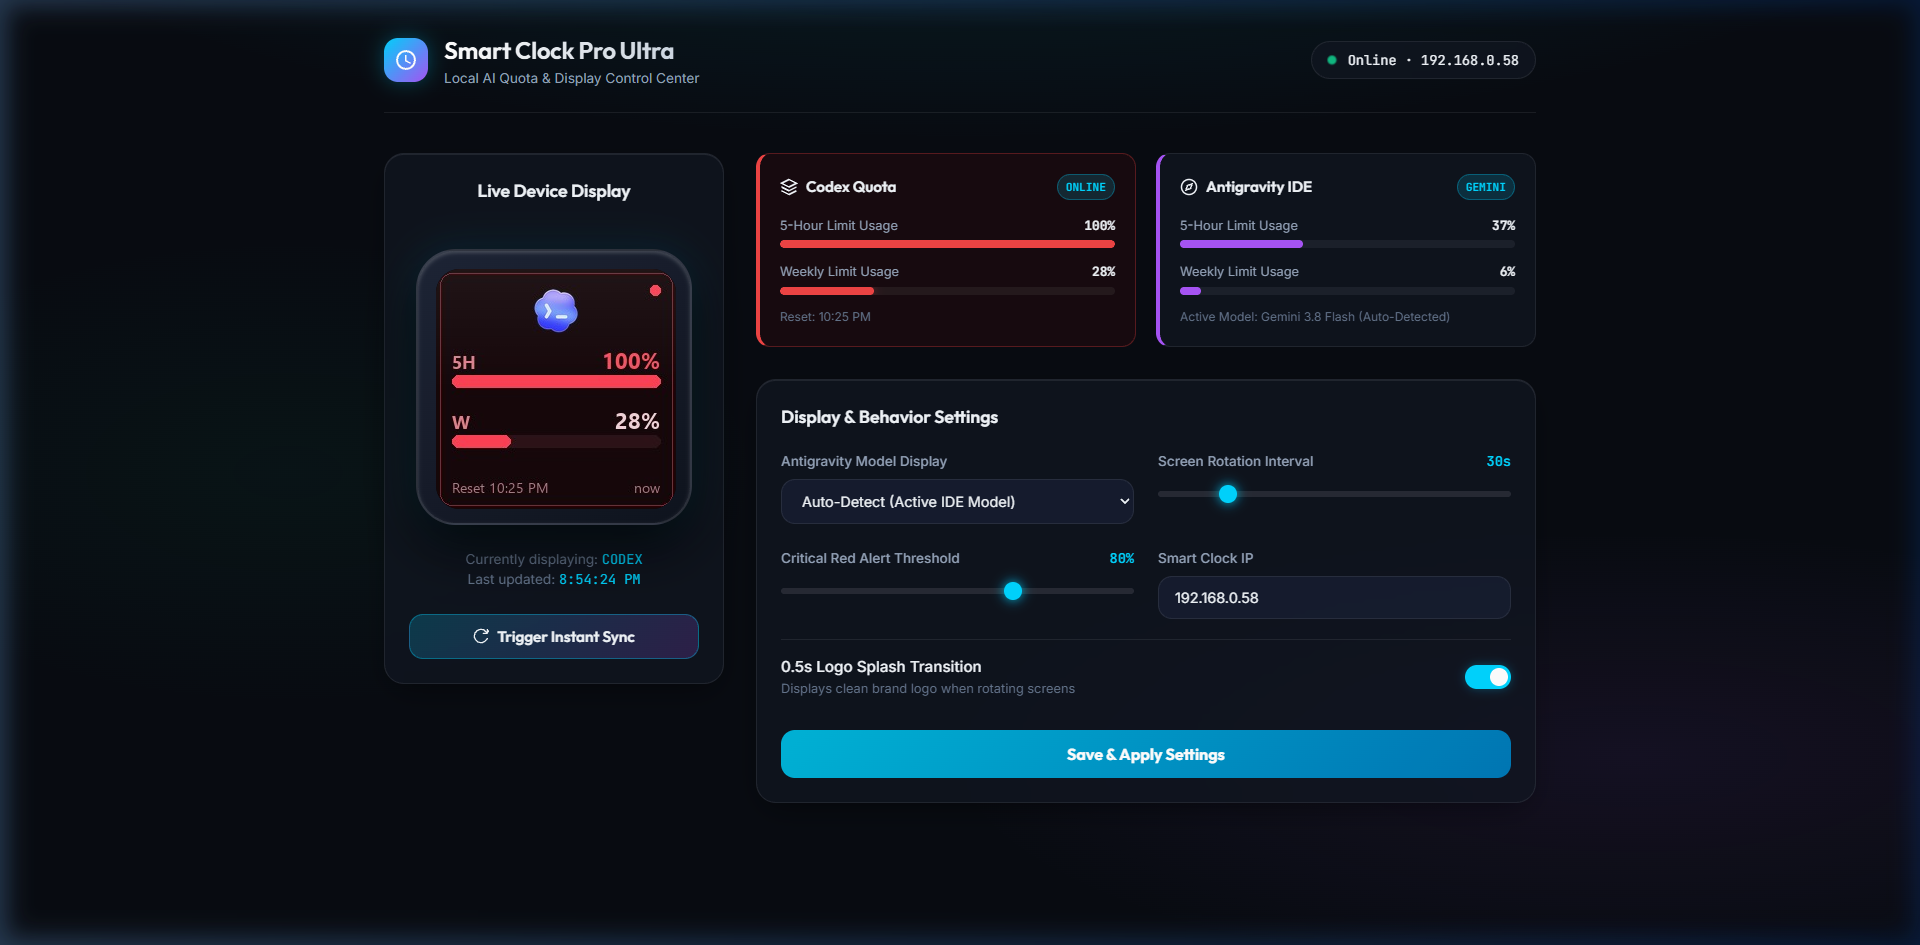
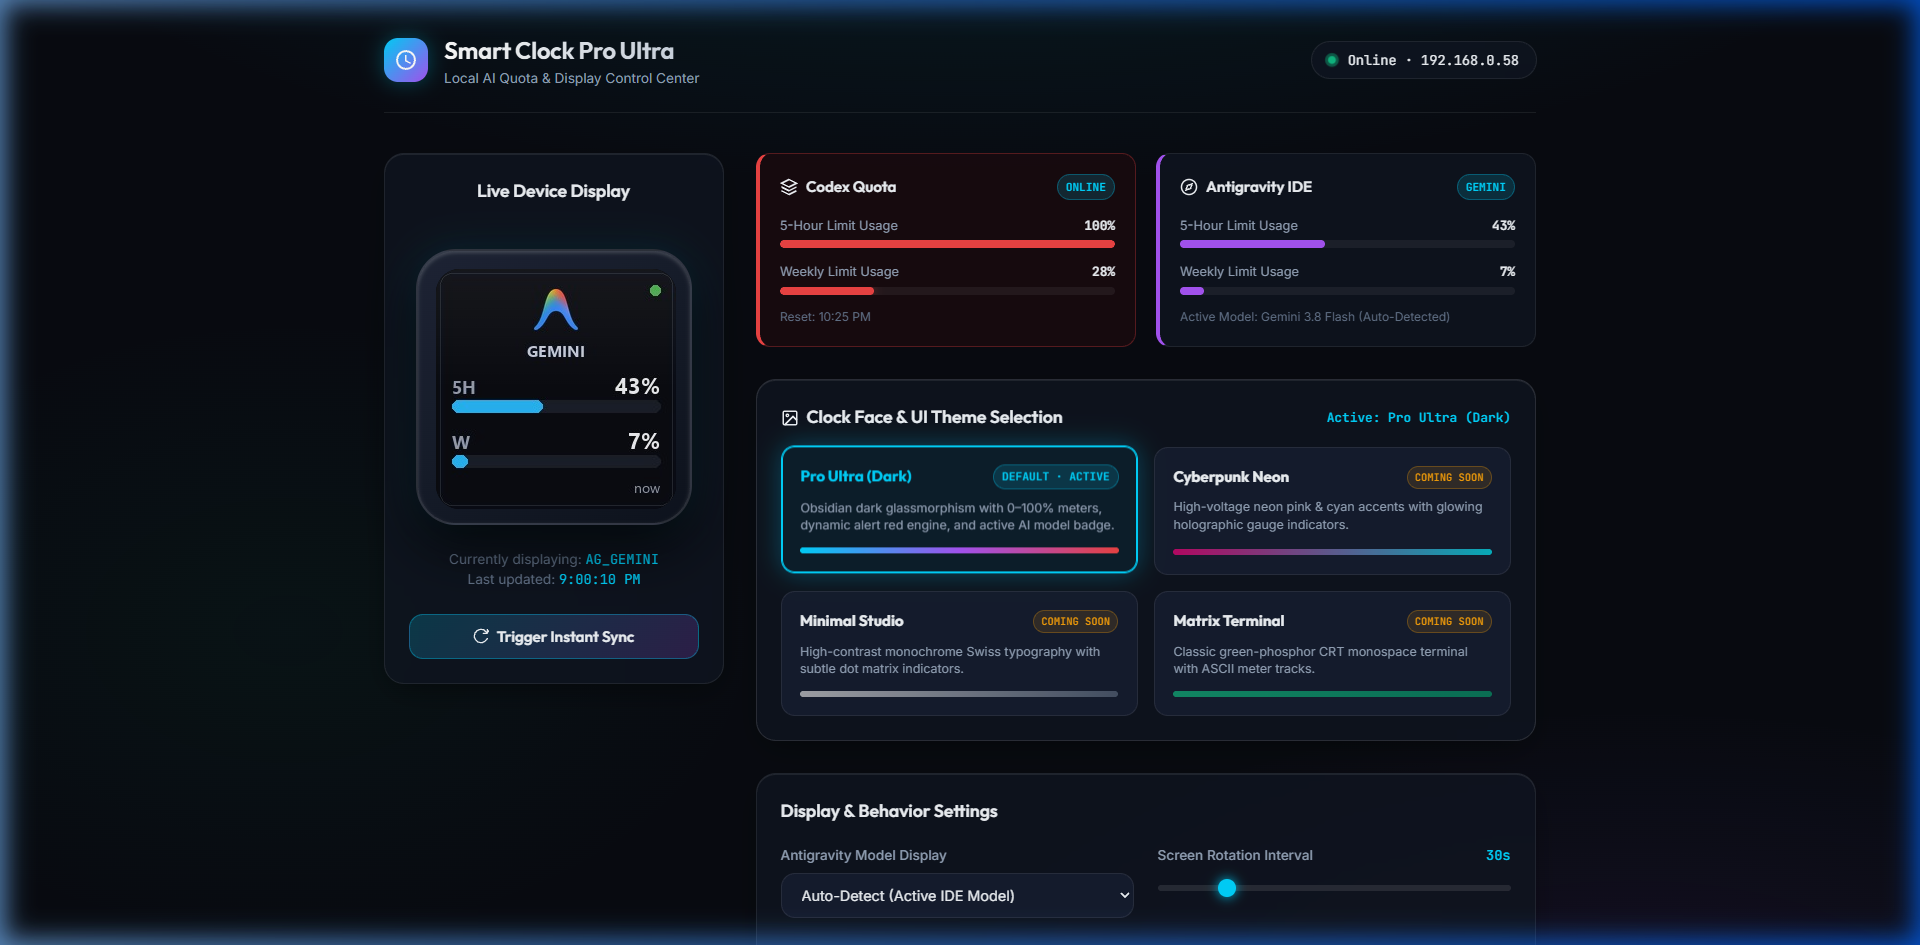
Add Clock Face & UI Theme Selection panel with interactive theme cards

diff --git a/web/index.html b/web/index.html
@@ -341,6 +341,18 @@
       border-color: rgba(168, 85, 247, 0.3);
     }
 
+    .badge-soon {
+      background: rgba(245, 158, 11, 0.12);
+      color: var(--amber);
+      border: 1px solid rgba(245, 158, 11, 0.3);
+      font-size: 0.65rem;
+      font-family: var(--font-mono);
+      font-weight: 600;
+      padding: 0.15rem 0.45rem;
+      border-radius: var(--radius-full);
+      text-transform: uppercase;
+    }
+
     .metric-item {
       margin-bottom: 0.85rem;
     }
@@ -384,6 +396,94 @@
     .progress-red {
       background: var(--red) !important;
       box-shadow: 0 0 10px var(--red-glow);
+    }
+
+    /* --- Theme Selector Cards --- */
+    .theme-grid {
+      display: grid;
+      grid-template-columns: 1fr 1fr;
+      gap: 1rem;
+    }
+
+    @media (max-width: 650px) {
+      .theme-grid {
+        grid-template-columns: 1fr;
+      }
+    }
+
+    .theme-card {
+      background: var(--bg-surface-elevated);
+      border: 1px solid var(--border-subtle);
+      border-radius: var(--radius-md);
+      padding: 1.15rem;
+      cursor: pointer;
+      position: relative;
+      transition: all 0.25s ease;
+      display: flex;
+      flex-direction: column;
+      gap: 0.6rem;
+    }
+
+    .theme-card:hover {
+      border-color: rgba(255, 255, 255, 0.2);
+      transform: translateY(-2px);
+      box-shadow: 0 8px 25px rgba(0, 0, 0, 0.5);
+    }
+
+    .theme-card.active {
+      border-color: var(--cyan);
+      background: rgba(0, 212, 255, 0.06);
+      box-shadow: 0 0 25px var(--cyan-glow), inset 0 0 0 1px var(--cyan);
+    }
+
+    .theme-card-header {
+      display: flex;
+      justify-content: space-between;
+      align-items: center;
+      gap: 0.5rem;
+    }
+
+    .theme-name {
+      font-family: var(--font-display);
+      font-weight: 700;
+      font-size: 0.95rem;
+      color: var(--text-primary);
+    }
+
+    .theme-card.active .theme-name {
+      color: var(--cyan);
+    }
+
+    .theme-desc {
+      font-size: 0.78rem;
+      color: var(--text-secondary);
+      line-height: 1.4;
+      flex: 1;
+    }
+
+    .theme-swatch {
+      height: 6px;
+      border-radius: var(--radius-full);
+      margin-top: 0.25rem;
+    }
+
+    .swatch-default {
+      background: linear-gradient(90deg, #00d4ff, #a855f7, #ef4444);
+    }
+
+    .swatch-cyberpunk {
+      background: linear-gradient(90deg, #ff007f, #00f0ff);
+      opacity: 0.7;
+    }
+
+    .swatch-minimal {
+      background: linear-gradient(90deg, #ffffff, #64748b);
+      opacity: 0.6;
+    }
+
+    .swatch-terminal {
+      background: linear-gradient(90deg, #10b981, #059669);
+      opacity: 0.7;
     }
 
     /* --- Form Controls --- */
@@ -612,7 +712,7 @@
         </button>
       </div>
 
-      <!-- Right Column: Live Metrics & Controls -->
+      <!-- Right Column: Live Metrics, Themes & Controls -->
       <div>
         <!-- Live Metrics Cards -->
         <div class="metrics-row">
@@ -694,6 +794,63 @@
           </div>
         </div>
 
+        <!-- NEW: Clock Face & UI Theme Selection -->
+        <div class="glass-panel" style="margin-bottom: 2rem;">
+          <div class="panel-title" style="justify-content: space-between; margin-bottom: 1rem;">
+            <div style="display: flex; align-items: center; gap: 0.5rem;">
+              <svg width="18" height="18" viewBox="0 0 24 24" fill="none" stroke="currentColor" stroke-width="2">
+                <rect x="3" y="3" width="18" height="18" rx="2" ry="2"></rect>
+                <circle cx="8.5" cy="8.5" r="1.5"></circle>
+                <polyline points="21 15 16 10 5 21"></polyline>
+              </svg>
+              <span>Clock Face & UI Theme Selection</span>
+            </div>
+            <span style="font-size: 0.8rem; color: var(--cyan); font-family: var(--font-mono);" id="current-theme-label">Active: Pro Ultra (Dark)</span>
+          </div>
+
+          <div class="theme-grid">
+            <!-- Theme 1: Default Pro Ultra -->
+            <div class="theme-card active" id="theme-card-default" onclick="selectTheme('default')">
+              <div class="theme-card-header">
+                <span class="theme-name">Pro Ultra (Dark)</span>
+                <span class="badge-active">Default · Active</span>
+              </div>
+              <p class="theme-desc">Obsidian dark glassmorphism with 0–100% meters, dynamic alert red engine, and active AI model badge.</p>
+              <div class="theme-swatch swatch-default"></div>
+            </div>
+
+            <!-- Theme 2: Cyberpunk Neon -->
+            <div class="theme-card" id="theme-card-cyberpunk" onclick="selectTheme('cyberpunk')">
+              <div class="theme-card-header">
+                <span class="theme-name">Cyberpunk Neon</span>
+                <span class="badge-soon">Coming Soon</span>
+              </div>
+              <p class="theme-desc">High-voltage neon pink & cyan accents with glowing holographic gauge indicators.</p>
+              <div class="theme-swatch swatch-cyberpunk"></div>
+            </div>
+
+            <!-- Theme 3: Minimal Studio -->
+            <div class="theme-card" id="theme-card-minimal" onclick="selectTheme('minimal')">
+              <div class="theme-card-header">
+                <span class="theme-name">Minimal Studio</span>
+                <span class="badge-soon">Coming Soon</span>
+              </div>
+              <p class="theme-desc">High-contrast monochrome Swiss typography with subtle dot matrix indicators.</p>
+              <div class="theme-swatch swatch-minimal"></div>
+            </div>
+
+            <!-- Theme 4: Retro Terminal -->
+            <div class="theme-card" id="theme-card-terminal" onclick="selectTheme('terminal')">
+              <div class="theme-card-header">
+                <span class="theme-name">Matrix Terminal</span>
+                <span class="badge-soon">Coming Soon</span>
+              </div>
+              <p class="theme-desc">Classic green-phosphor CRT monospace terminal with ASCII meter tracks.</p>
+              <div class="theme-swatch swatch-terminal"></div>
+            </div>
+          </div>
+        </div>
+
         <!-- Controls Panel -->
         <div class="glass-panel">
           <div class="panel-title">
@@ -769,6 +926,8 @@
   </div>
 
   <script>
+    let currentSelectedTheme = 'default';
+
     function updateIntervalDisplay(val) {
       document.getElementById('val-rotation-interval').textContent = val + 's';
     }
@@ -781,7 +940,35 @@
       const toast = document.getElementById('toast');
       document.getElementById('toast-message').textContent = msg;
       toast.classList.add('show');
-      setTimeout(() => toast.classList.remove('show'), 3000);
+      setTimeout(() => toast.classList.remove('show'), 3200);
+    }
+
+    function selectTheme(themeId) {
+      currentSelectedTheme = themeId;
+      document.querySelectorAll('.theme-card').forEach(card => card.classList.remove('active'));
+      const activeCard = document.getElementById('theme-card-' + themeId);
+      if (activeCard) activeCard.classList.add('active');
+
+      const labelMap = {
+        'default': 'Active: Pro Ultra (Dark)',
+        'cyberpunk': 'Selected: Cyberpunk Neon (Coming Soon)',
+        'minimal': 'Selected: Minimal Studio (Coming Soon)',
+        'terminal': 'Selected: Matrix Terminal (Coming Soon)'
+      };
+      document.getElementById('current-theme-label').textContent = labelMap[themeId] || themeId;
+
+      if (themeId === 'default') {
+        showToast('Default Pro Ultra theme is active on device!');
+      } else {
+        showToast(`Theme selected: ${themeId.toUpperCase()} (Coming in next UI update)`);
+      }
+
+      // Automatically sync theme selection to config
+      fetch('/api/config', {
+        method: 'POST',
+        headers: { 'Content-Type': 'application/json' },
+        body: JSON.stringify({ selected_theme: themeId })
+      });
     }
 
     async function fetchStatus() {
@@ -897,6 +1084,9 @@
           updateAlertDisplay(config.alert_threshold);
         }
         if (config.show_splash !== undefined) document.getElementById('check-splash').checked = config.show_splash;
+        if (config.selected_theme) {
+          selectTheme(config.selected_theme);
+        }
       } catch (err) {
         console.error('Config load error:', err);
       }
@@ -908,7 +1098,8 @@
         rotation_interval: parseInt(document.getElementById('slider-interval').value, 10),
         ag_model_mode: document.getElementById('select-model-mode').value,
         alert_threshold: parseInt(document.getElementById('slider-alert').value, 10),
-        show_splash: document.getElementById('check-splash').checked
+        show_splash: document.getElementById('check-splash').checked,
+        selected_theme: currentSelectedTheme
       };
 
       try {

diff --git a/web_server.py b/web_server.py
@@ -20,6 +20,7 @@ def read_config():
         "ag_model_mode": "auto",
         "alert_threshold": 80,
         "show_splash": True,
+        "selected_theme": "default",
     }
     if CONFIG_PATH.exists():
         try:
@@ -98,6 +99,8 @@ def config_endpoint():
             updated["alert_threshold"] = max(10, min(100, int(payload["alert_threshold"])))
         if "show_splash" in payload:
             updated["show_splash"] = bool(payload["show_splash"])
+        if "selected_theme" in payload:
+            updated["selected_theme"] = str(payload["selected_theme"]).strip()
 
         saved = write_config(updated)
         return jsonify({"status": "ok", "config": saved})
